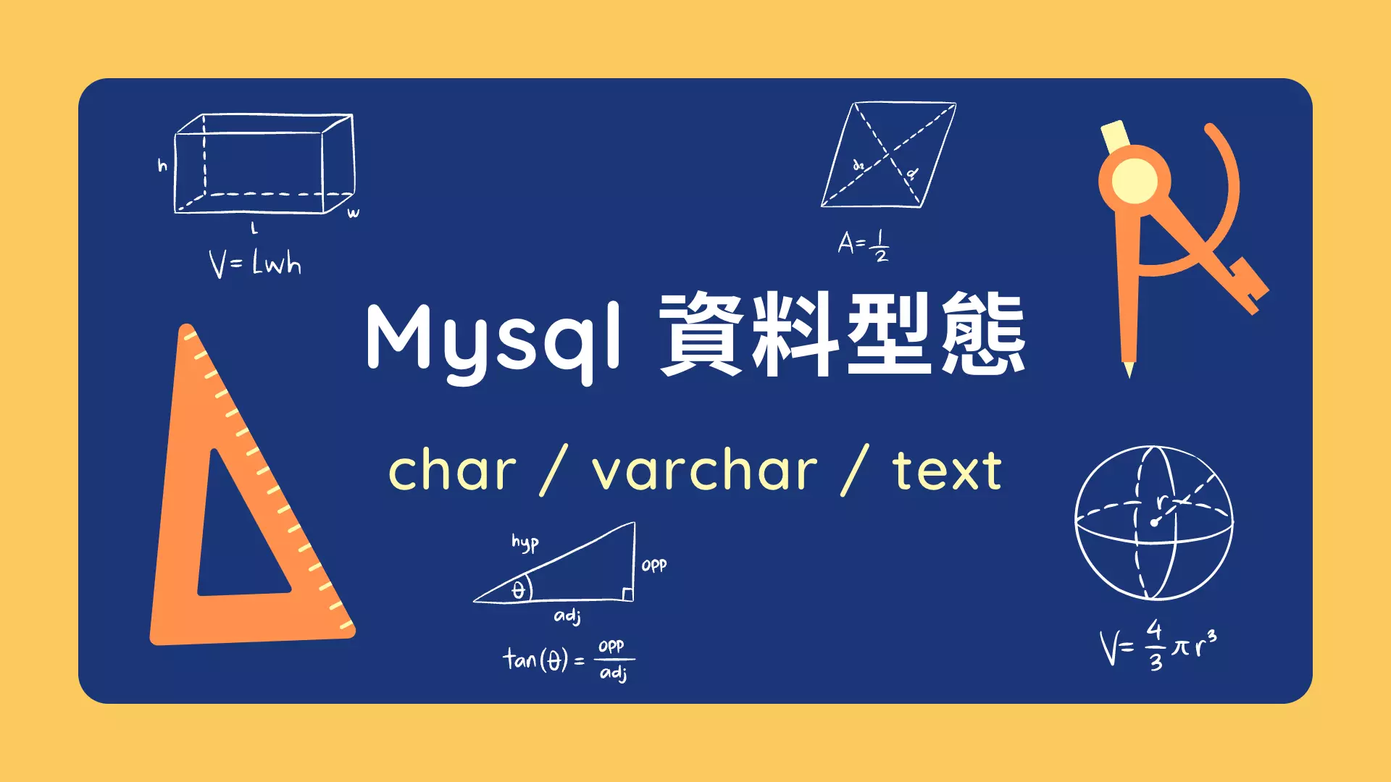
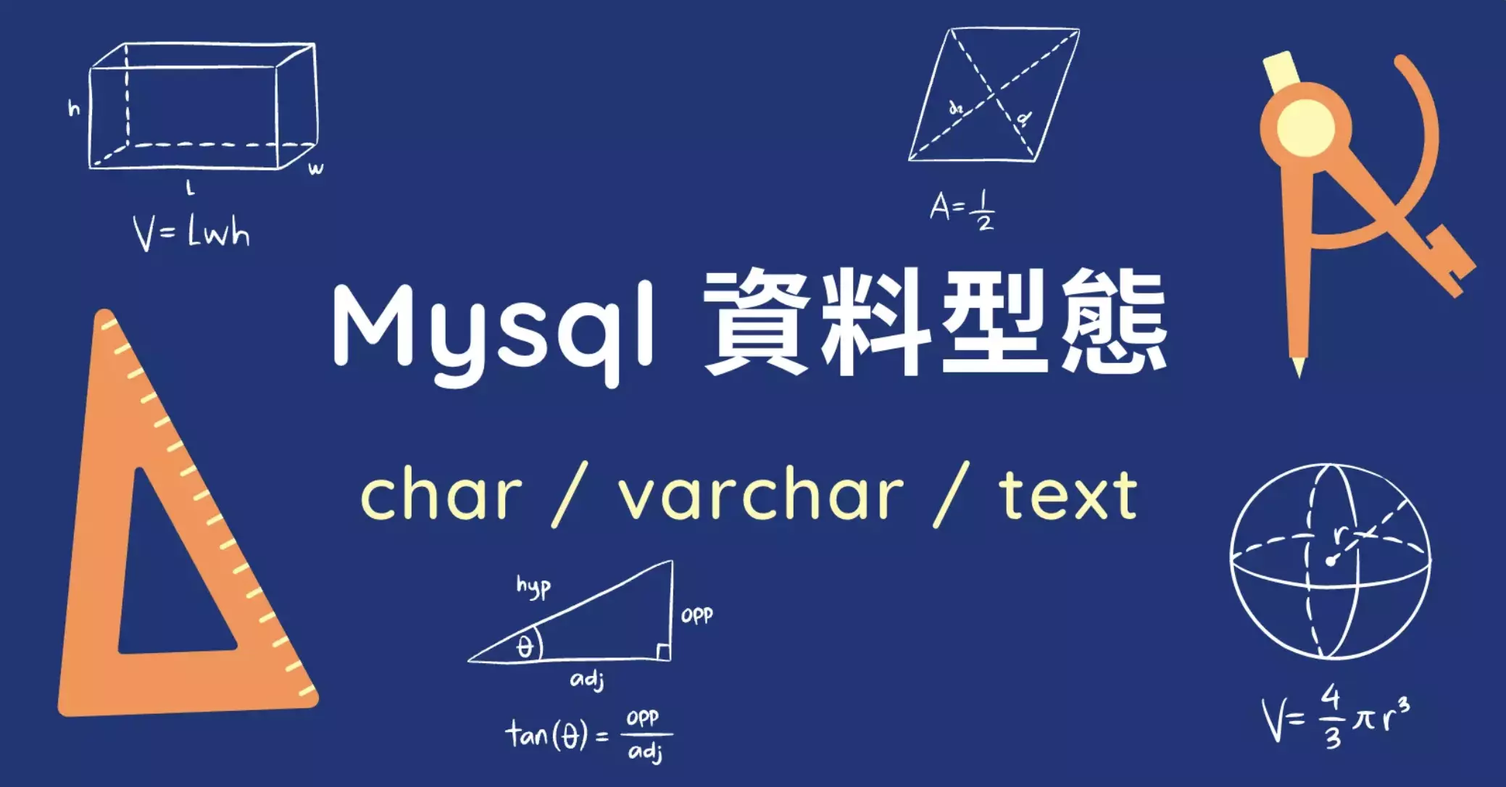
更新blog：2022/03/07 21:57:34

diff --git a/en/hualien-part3/index.html b/en/hualien-part3/index.html
@@ -9,7 +9,7 @@
 <meta property="og:type" content="article" />
 <meta property="og:url" content="https://pin-yi.me/en/hualien-part3/" /><meta property="og:image" content="https://pin-yi.me/en/hualien-part3/featured-image.webp"/><meta property="article:section" content="posts" />
 <meta property="article:published_time" content="2022-01-19T12:00:00+08:00" />
-<meta property="article:modified_time" content="2022-02-20T19:06:45+08:00" />
+<meta property="article:modified_time" content="2022-01-19T12:00:00+08:00" />
 
 <meta name="twitter:card" content="summary_large_image"/>
 <meta name="twitter:image" content="https://pin-yi.me/en/hualien-part3/featured-image.webp"/>
@@ -34,7 +34,7 @@
                             "width":  1920 ,
                             "height":  1080 
                         }],"genre": "posts","keywords": "LongStay, 旅遊, YouTube","wordcount":  78 ,
-        "url": "https:\/\/pin-yi.me\/en\/hualien-part3\/","datePublished": "2022-01-19T12:00:00+08:00","dateModified": "2022-02-20T19:06:45+08:00","license": "This work is licensed under a Creative Commons Attribution-NonCommercial 4.0 International License.","publisher": {
+        "url": "https:\/\/pin-yi.me\/en\/hualien-part3\/","datePublished": "2022-01-19T12:00:00+08:00","dateModified": "2022-01-19T12:00:00+08:00","license": "This work is licensed under a Creative Commons Attribution-NonCommercial 4.0 International License.","publisher": {
             "@type": "Organization",
             "name": "Zhuang,Pin-Yi","logo": "https:\/\/pin-yi.me\/images\/avatar.webp"},"author": {
                 "@type": "Person",
@@ -214,13 +214,12 @@ if (!doNotTrack) {
                 </span><span><a href="/en/tags/%E6%97%85%E9%81%8A/">旅遊</a>
                 </span><span><a href="/en/tags/youtube/">YouTube</a>
                 </span></div><div class="post-info-line"><div class="post-info-mod">
-                <span>Updated on 2022-02-20&nbsp;<a class="git-hash" href="https://github.com/880831ian/blog/commit/06e664a5cc04e2c6e96c272cfaa60a30ed2de145" target="_blank" title="committed&nbsp;by&nbsp;PinYi(880831ian@gmail.com)&nbsp;06e664a:&nbsp;Initial commit">
-                            <i class="fas fa-hashtag fa-fw"></i>06e664a</a></span>
+                <span>Updated on 2022-01-19</span>
             </div><div class="post-info-mod"><span>
                             <a class="link-to-markdown" href="/en/hualien-part3/index.md" target="_blank">Read Markdown</a>
                         </span><span>
                         &nbsp;|&nbsp;
-                        <a class="link-to-markdown" href="https://github.com/880831ian/blog/tree/main/content/posts/Hualien-part3/index.en.md" target="_blank">Improve Article</a>
+                        <a class="link-to-markdown" href="https://github.com/880831ian/blog/tree/main/content/posts/hualien-part3/index.en.md" target="_blank">Improve Article</a>
                     </span></div>
         </div><div class="post-info-share">
             <span><a href="javascript:void(0);" title="Share on Twitter" data-sharer="twitter" data-url="https://pin-yi.me/en/hualien-part3/" data-title="好想再滑一次獨木舟 【Part 3】 花蓮要怎麼玩？玩一個月帶你認識你不知道的花蓮" data-hashtags="LongStay,旅遊,YouTube"><i class="fab fa-twitter fa-fw"></i></a><a href="javascript:void(0);" title="Share on Facebook" data-sharer="facebook" data-url="https://pin-yi.me/en/hualien-part3/" data-hashtag="LongStay"><i class="fab fa-facebook-square fa-fw"></i></a><a href="javascript:void(0);" title="Share on Linkedin" data-sharer="linkedin" data-url="https://pin-yi.me/en/hualien-part3/"><i class="fab fa-linkedin fa-fw"></i></a><a href="javascript:void(0);" title="Share on Reddit" data-sharer="reddit" data-url="https://pin-yi.me/en/hualien-part3/"><i class="fab fa-reddit fa-fw"></i></a><a href="javascript:void(0);" title="Share on Line" data-sharer="line" data-url="https://pin-yi.me/en/hualien-part3/" data-title="好想再滑一次獨木舟 【Part 3】 花蓮要怎麼玩？玩一個月帶你認識你不知道的花蓮"><i class="fab fa-line fa-fw"></i></a><a href="javascript:void(0);" title="Share on 微博" data-sharer="weibo" data-url="https://pin-yi.me/en/hualien-part3/" data-title="好想再滑一次獨木舟 【Part 3】 花蓮要怎麼玩？玩一個月帶你認識你不知道的花蓮"><i class="fab fa-weibo fa-fw"></i></a><a href="javascript:void(0);" title="Share on Skype" data-sharer="skype" data-url="https://pin-yi.me/en/hualien-part3/" data-title="好想再滑一次獨木舟 【Part 3】 花蓮要怎麼玩？玩一個月帶你認識你不知道的花蓮"><i class="fab fa-skype fa-fw"></i></a></span>

diff --git a/en/hualien-part1/index.html b/en/hualien-part1/index.html
@@ -9,7 +9,7 @@
 <meta property="og:type" content="article" />
 <meta property="og:url" content="https://pin-yi.me/en/hualien-part1/" /><meta property="og:image" content="https://pin-yi.me/en/hualien-part1/featured-image.webp"/><meta property="article:section" content="posts" />
 <meta property="article:published_time" content="2021-08-16T12:00:00+08:00" />
-<meta property="article:modified_time" content="2022-02-23T22:28:43+08:00" />
+<meta property="article:modified_time" content="2021-08-16T12:00:00+08:00" />
 
 <meta name="twitter:card" content="summary_large_image"/>
 <meta name="twitter:image" content="https://pin-yi.me/en/hualien-part1/featured-image.webp"/>
@@ -34,7 +34,7 @@
                             "width":  1280 ,
                             "height":  720 
                         }],"genre": "posts","keywords": "LongStay, 旅遊, YouTube","wordcount":  116 ,
-        "url": "https:\/\/pin-yi.me\/en\/hualien-part1\/","datePublished": "2021-08-16T12:00:00+08:00","dateModified": "2022-02-23T22:28:43+08:00","license": "This work is licensed under a Creative Commons Attribution-NonCommercial 4.0 International License.","publisher": {
+        "url": "https:\/\/pin-yi.me\/en\/hualien-part1\/","datePublished": "2021-08-16T12:00:00+08:00","dateModified": "2021-08-16T12:00:00+08:00","license": "This work is licensed under a Creative Commons Attribution-NonCommercial 4.0 International License.","publisher": {
             "@type": "Organization",
             "name": "Zhuang,Pin-Yi","logo": "https:\/\/pin-yi.me\/images\/avatar.webp"},"author": {
                 "@type": "Person",
@@ -214,13 +214,12 @@ if (!doNotTrack) {
                 </span><span><a href="/en/tags/%E6%97%85%E9%81%8A/">旅遊</a>
                 </span><span><a href="/en/tags/youtube/">YouTube</a>
                 </span></div><div class="post-info-line"><div class="post-info-mod">
-                <span>Updated on 2022-02-23&nbsp;<a class="git-hash" href="https://github.com/880831ian/blog/commit/de8ed8125dc672e9d369d194885fde142bcd5cf1" target="_blank" title="committed&nbsp;by&nbsp;PinYi(880831ian@gmail.com)&nbsp;de8ed81:&nbsp;v1.0.3">
-                            <i class="fas fa-hashtag fa-fw"></i>de8ed81</a></span>
+                <span>Updated on 2021-08-16</span>
             </div><div class="post-info-mod"><span>
                             <a class="link-to-markdown" href="/en/hualien-part1/index.md" target="_blank">Read Markdown</a>
                         </span><span>
                         &nbsp;|&nbsp;
-                        <a class="link-to-markdown" href="https://github.com/880831ian/blog/tree/main/content/posts/Hualien-part1/index.en.md" target="_blank">Improve Article</a>
+                        <a class="link-to-markdown" href="https://github.com/880831ian/blog/tree/main/content/posts/hualien-part1/index.en.md" target="_blank">Improve Article</a>
                     </span></div>
         </div><div class="post-info-share">
             <span><a href="javascript:void(0);" title="Share on Twitter" data-sharer="twitter" data-url="https://pin-yi.me/en/hualien-part1/" data-title="花蓮吉安鄉在地旅遊 【Part 1】 花蓮要怎麼玩？玩一個月帶你認識你不知道的花蓮" data-hashtags="LongStay,旅遊,YouTube"><i class="fab fa-twitter fa-fw"></i></a><a href="javascript:void(0);" title="Share on Facebook" data-sharer="facebook" data-url="https://pin-yi.me/en/hualien-part1/" data-hashtag="LongStay"><i class="fab fa-facebook-square fa-fw"></i></a><a href="javascript:void(0);" title="Share on Linkedin" data-sharer="linkedin" data-url="https://pin-yi.me/en/hualien-part1/"><i class="fab fa-linkedin fa-fw"></i></a><a href="javascript:void(0);" title="Share on Reddit" data-sharer="reddit" data-url="https://pin-yi.me/en/hualien-part1/"><i class="fab fa-reddit fa-fw"></i></a><a href="javascript:void(0);" title="Share on Line" data-sharer="line" data-url="https://pin-yi.me/en/hualien-part1/" data-title="花蓮吉安鄉在地旅遊 【Part 1】 花蓮要怎麼玩？玩一個月帶你認識你不知道的花蓮"><i class="fab fa-line fa-fw"></i></a><a href="javascript:void(0);" title="Share on 微博" data-sharer="weibo" data-url="https://pin-yi.me/en/hualien-part1/" data-title="花蓮吉安鄉在地旅遊 【Part 1】 花蓮要怎麼玩？玩一個月帶你認識你不知道的花蓮"><i class="fab fa-weibo fa-fw"></i></a><a href="javascript:void(0);" title="Share on Skype" data-sharer="skype" data-url="https://pin-yi.me/en/hualien-part1/" data-title="花蓮吉安鄉在地旅遊 【Part 1】 花蓮要怎麼玩？玩一個月帶你認識你不知道的花蓮"><i class="fab fa-skype fa-fw"></i></a></span>

diff --git a/en/hualien-part2/index.html b/en/hualien-part2/index.html
@@ -9,7 +9,7 @@
 <meta property="og:type" content="article" />
 <meta property="og:url" content="https://pin-yi.me/en/hualien-part2/" /><meta property="og:image" content="https://pin-yi.me/en/hualien-part2/featured-image.webp"/><meta property="article:section" content="posts" />
 <meta property="article:published_time" content="2022-01-16T12:00:00+08:00" />
-<meta property="article:modified_time" content="2022-02-20T19:06:45+08:00" />
+<meta property="article:modified_time" content="2022-01-16T12:00:00+08:00" />
 
 <meta name="twitter:card" content="summary_large_image"/>
 <meta name="twitter:image" content="https://pin-yi.me/en/hualien-part2/featured-image.webp"/>
@@ -34,7 +34,7 @@
                             "width":  1920 ,
                             "height":  1080 
                         }],"genre": "posts","keywords": "LongStay, 旅遊, YouTube","wordcount":  77 ,
-        "url": "https:\/\/pin-yi.me\/en\/hualien-part2\/","datePublished": "2022-01-16T12:00:00+08:00","dateModified": "2022-02-20T19:06:45+08:00","license": "This work is licensed under a Creative Commons Attribution-NonCommercial 4.0 International License.","publisher": {
+        "url": "https:\/\/pin-yi.me\/en\/hualien-part2\/","datePublished": "2022-01-16T12:00:00+08:00","dateModified": "2022-01-16T12:00:00+08:00","license": "This work is licensed under a Creative Commons Attribution-NonCommercial 4.0 International License.","publisher": {
             "@type": "Organization",
             "name": "Zhuang,Pin-Yi","logo": "https:\/\/pin-yi.me\/images\/avatar.webp"},"author": {
                 "@type": "Person",
@@ -205,13 +205,12 @@ if (!doNotTrack) {
                 </span><span><a href="/en/tags/%E6%97%85%E9%81%8A/">旅遊</a>
                 </span><span><a href="/en/tags/youtube/">YouTube</a>
                 </span></div><div class="post-info-line"><div class="post-info-mod">
-                <span>Updated on 2022-02-20&nbsp;<a class="git-hash" href="https://github.com/880831ian/blog/commit/06e664a5cc04e2c6e96c272cfaa60a30ed2de145" target="_blank" title="committed&nbsp;by&nbsp;PinYi(880831ian@gmail.com)&nbsp;06e664a:&nbsp;Initial commit">
-                            <i class="fas fa-hashtag fa-fw"></i>06e664a</a></span>
+                <span>Updated on 2022-01-16</span>
             </div><div class="post-info-mod"><span>
                             <a class="link-to-markdown" href="/en/hualien-part2/index.md" target="_blank">Read Markdown</a>
                         </span><span>
                         &nbsp;|&nbsp;
-                        <a class="link-to-markdown" href="https://github.com/880831ian/blog/tree/main/content/posts/Hualien-part2/index.en.md" target="_blank">Improve Article</a>
+                        <a class="link-to-markdown" href="https://github.com/880831ian/blog/tree/main/content/posts/hualien-part2/index.en.md" target="_blank">Improve Article</a>
                     </span></div>
         </div><div class="post-info-share">
             <span><a href="javascript:void(0);" title="Share on Twitter" data-sharer="twitter" data-url="https://pin-yi.me/en/hualien-part2/" data-title="空拍帶你看花蓮 【Part 2】 花蓮要怎麼玩？玩一個月帶你認識你不知道的花蓮" data-hashtags="LongStay,旅遊,YouTube"><i class="fab fa-twitter fa-fw"></i></a><a href="javascript:void(0);" title="Share on Facebook" data-sharer="facebook" data-url="https://pin-yi.me/en/hualien-part2/" data-hashtag="LongStay"><i class="fab fa-facebook-square fa-fw"></i></a><a href="javascript:void(0);" title="Share on Linkedin" data-sharer="linkedin" data-url="https://pin-yi.me/en/hualien-part2/"><i class="fab fa-linkedin fa-fw"></i></a><a href="javascript:void(0);" title="Share on Reddit" data-sharer="reddit" data-url="https://pin-yi.me/en/hualien-part2/"><i class="fab fa-reddit fa-fw"></i></a><a href="javascript:void(0);" title="Share on Line" data-sharer="line" data-url="https://pin-yi.me/en/hualien-part2/" data-title="空拍帶你看花蓮 【Part 2】 花蓮要怎麼玩？玩一個月帶你認識你不知道的花蓮"><i class="fab fa-line fa-fw"></i></a><a href="javascript:void(0);" title="Share on 微博" data-sharer="weibo" data-url="https://pin-yi.me/en/hualien-part2/" data-title="空拍帶你看花蓮 【Part 2】 花蓮要怎麼玩？玩一個月帶你認識你不知道的花蓮"><i class="fab fa-weibo fa-fw"></i></a><a href="javascript:void(0);" title="Share on Skype" data-sharer="skype" data-url="https://pin-yi.me/en/hualien-part2/" data-title="空拍帶你看花蓮 【Part 2】 花蓮要怎麼玩？玩一個月帶你認識你不知道的花蓮"><i class="fab fa-skype fa-fw"></i></a></span>

diff --git a/hualien-part3/index.html b/hualien-part3/index.html
@@ -9,7 +9,7 @@
 <meta property="og:type" content="article" />
 <meta property="og:url" content="https://pin-yi.me/hualien-part3/" /><meta property="og:image" content="https://pin-yi.me/hualien-part3/featured-image.webp"/><meta property="article:section" content="posts" />
 <meta property="article:published_time" content="2022-01-19T12:00:00+08:00" />
-<meta property="article:modified_time" content="2022-02-20T19:06:45+08:00" />
+<meta property="article:modified_time" content="2022-01-19T12:00:00+08:00" />
 
 <meta name="twitter:card" content="summary_large_image"/>
 <meta name="twitter:image" content="https://pin-yi.me/hualien-part3/featured-image.webp"/>
@@ -34,7 +34,7 @@
                             "width":  1920 ,
                             "height":  1080 
                         }],"genre": "posts","keywords": "LongStay, 旅遊, YouTube","wordcount":  224 ,
-        "url": "https:\/\/pin-yi.me\/hualien-part3\/","datePublished": "2022-01-19T12:00:00+08:00","dateModified": "2022-02-20T19:06:45+08:00","license": "This work is licensed under a Creative Commons Attribution-NonCommercial 4.0 International License.","publisher": {
+        "url": "https:\/\/pin-yi.me\/hualien-part3\/","datePublished": "2022-01-19T12:00:00+08:00","dateModified": "2022-01-19T12:00:00+08:00","license": "This work is licensed under a Creative Commons Attribution-NonCommercial 4.0 International License.","publisher": {
             "@type": "Organization",
             "name": "Zhuang,Pin-Yi","logo": "https:\/\/pin-yi.me\/images\/avatar.webp"},"author": {
                 "@type": "Person",
@@ -214,13 +214,12 @@ if (!doNotTrack) {
                 </span><span><a href="/tags/%E6%97%85%E9%81%8A/">旅遊</a>
                 </span><span><a href="/tags/youtube/">YouTube</a>
                 </span></div><div class="post-info-line"><div class="post-info-mod">
-                <span>更新於 2022-02-20&nbsp;<a class="git-hash" href="https://github.com/880831ian/blog/commit/06e664a5cc04e2c6e96c272cfaa60a30ed2de145" target="_blank" title="committed&nbsp;by&nbsp;PinYi(880831ian@gmail.com)&nbsp;06e664a:&nbsp;Initial commit">
-                            <i class="fas fa-hashtag fa-fw"></i>06e664a</a></span>
+                <span>更新於 2022-01-19</span>
             </div><div class="post-info-mod"><span>
                             <a class="link-to-markdown" href="/hualien-part3/index.md" target="_blank">閱讀原始文檔</a>
                         </span><span>
                         &nbsp;|&nbsp;
-                        <a class="link-to-markdown" href="https://github.com/880831ian/blog/tree/main/content/posts/Hualien-part3/index.zh-tw.md" target="_blank">Improve Article</a>
+                        <a class="link-to-markdown" href="https://github.com/880831ian/blog/tree/main/content/posts/hualien-part3/index.zh-tw.md" target="_blank">Improve Article</a>
                     </span></div>
         </div><div class="post-info-share">
             <span><a href="javascript:void(0);" title="分享到 Twitter" data-sharer="twitter" data-url="https://pin-yi.me/hualien-part3/" data-title="好想再滑一次獨木舟 【Part 3】 花蓮要怎麼玩？玩一個月帶你認識你不知道的花蓮" data-hashtags="LongStay,旅遊,YouTube"><i class="fab fa-twitter fa-fw"></i></a><a href="javascript:void(0);" title="分享到 Facebook" data-sharer="facebook" data-url="https://pin-yi.me/hualien-part3/" data-hashtag="LongStay"><i class="fab fa-facebook-square fa-fw"></i></a><a href="javascript:void(0);" title="分享到 Linkedin" data-sharer="linkedin" data-url="https://pin-yi.me/hualien-part3/"><i class="fab fa-linkedin fa-fw"></i></a><a href="javascript:void(0);" title="分享到 Reddit" data-sharer="reddit" data-url="https://pin-yi.me/hualien-part3/"><i class="fab fa-reddit fa-fw"></i></a><a href="javascript:void(0);" title="分享到 Line" data-sharer="line" data-url="https://pin-yi.me/hualien-part3/" data-title="好想再滑一次獨木舟 【Part 3】 花蓮要怎麼玩？玩一個月帶你認識你不知道的花蓮"><i class="fab fa-line fa-fw"></i></a><a href="javascript:void(0);" title="分享到 微博" data-sharer="weibo" data-url="https://pin-yi.me/hualien-part3/" data-title="好想再滑一次獨木舟 【Part 3】 花蓮要怎麼玩？玩一個月帶你認識你不知道的花蓮"><i class="fab fa-weibo fa-fw"></i></a><a href="javascript:void(0);" title="分享到 Skype" data-sharer="skype" data-url="https://pin-yi.me/hualien-part3/" data-title="好想再滑一次獨木舟 【Part 3】 花蓮要怎麼玩？玩一個月帶你認識你不知道的花蓮"><i class="fab fa-skype fa-fw"></i></a></span>

diff --git a/hualien-part1/index.html b/hualien-part1/index.html
@@ -9,7 +9,7 @@
 <meta property="og:type" content="article" />
 <meta property="og:url" content="https://pin-yi.me/hualien-part1/" /><meta property="og:image" content="https://pin-yi.me/hualien-part1/featured-image.webp"/><meta property="article:section" content="posts" />
 <meta property="article:published_time" content="2021-08-16T12:00:00+08:00" />
-<meta property="article:modified_time" content="2022-02-20T19:06:45+08:00" />
+<meta property="article:modified_time" content="2021-08-16T12:00:00+08:00" />
 
 <meta name="twitter:card" content="summary_large_image"/>
 <meta name="twitter:image" content="https://pin-yi.me/hualien-part1/featured-image.webp"/>
@@ -34,7 +34,7 @@
                             "width":  1280 ,
                             "height":  720 
                         }],"genre": "posts","keywords": "LongStay, 旅遊, YouTube","wordcount":  257 ,
-        "url": "https:\/\/pin-yi.me\/hualien-part1\/","datePublished": "2021-08-16T12:00:00+08:00","dateModified": "2022-02-20T19:06:45+08:00","license": "This work is licensed under a Creative Commons Attribution-NonCommercial 4.0 International License.","publisher": {
+        "url": "https:\/\/pin-yi.me\/hualien-part1\/","datePublished": "2021-08-16T12:00:00+08:00","dateModified": "2021-08-16T12:00:00+08:00","license": "This work is licensed under a Creative Commons Attribution-NonCommercial 4.0 International License.","publisher": {
             "@type": "Organization",
             "name": "Zhuang,Pin-Yi","logo": "https:\/\/pin-yi.me\/images\/avatar.webp"},"author": {
                 "@type": "Person",
@@ -214,13 +214,12 @@ if (!doNotTrack) {
                 </span><span><a href="/tags/%E6%97%85%E9%81%8A/">旅遊</a>
                 </span><span><a href="/tags/youtube/">YouTube</a>
                 </span></div><div class="post-info-line"><div class="post-info-mod">
-                <span>更新於 2022-02-20&nbsp;<a class="git-hash" href="https://github.com/880831ian/blog/commit/06e664a5cc04e2c6e96c272cfaa60a30ed2de145" target="_blank" title="committed&nbsp;by&nbsp;PinYi(880831ian@gmail.com)&nbsp;06e664a:&nbsp;Initial commit">
-                            <i class="fas fa-hashtag fa-fw"></i>06e664a</a></span>
+                <span>更新於 2021-08-16</span>
             </div><div class="post-info-mod"><span>
                             <a class="link-to-markdown" href="/hualien-part1/index.md" target="_blank">閱讀原始文檔</a>
                         </span><span>
                         &nbsp;|&nbsp;
-                        <a class="link-to-markdown" href="https://github.com/880831ian/blog/tree/main/content/posts/Hualien-part1/index.zh-tw.md" target="_blank">Improve Article</a>
+                        <a class="link-to-markdown" href="https://github.com/880831ian/blog/tree/main/content/posts/hualien-part1/index.zh-tw.md" target="_blank">Improve Article</a>
                     </span></div>
         </div><div class="post-info-share">
             <span><a href="javascript:void(0);" title="分享到 Twitter" data-sharer="twitter" data-url="https://pin-yi.me/hualien-part1/" data-title="花蓮吉安鄉在地旅遊 【Part 1】 花蓮要怎麼玩？玩一個月帶你認識你不知道的花蓮" data-hashtags="LongStay,旅遊,YouTube"><i class="fab fa-twitter fa-fw"></i></a><a href="javascript:void(0);" title="分享到 Facebook" data-sharer="facebook" data-url="https://pin-yi.me/hualien-part1/" data-hashtag="LongStay"><i class="fab fa-facebook-square fa-fw"></i></a><a href="javascript:void(0);" title="分享到 Linkedin" data-sharer="linkedin" data-url="https://pin-yi.me/hualien-part1/"><i class="fab fa-linkedin fa-fw"></i></a><a href="javascript:void(0);" title="分享到 Reddit" data-sharer="reddit" data-url="https://pin-yi.me/hualien-part1/"><i class="fab fa-reddit fa-fw"></i></a><a href="javascript:void(0);" title="分享到 Line" data-sharer="line" data-url="https://pin-yi.me/hualien-part1/" data-title="花蓮吉安鄉在地旅遊 【Part 1】 花蓮要怎麼玩？玩一個月帶你認識你不知道的花蓮"><i class="fab fa-line fa-fw"></i></a><a href="javascript:void(0);" title="分享到 微博" data-sharer="weibo" data-url="https://pin-yi.me/hualien-part1/" data-title="花蓮吉安鄉在地旅遊 【Part 1】 花蓮要怎麼玩？玩一個月帶你認識你不知道的花蓮"><i class="fab fa-weibo fa-fw"></i></a><a href="javascript:void(0);" title="分享到 Skype" data-sharer="skype" data-url="https://pin-yi.me/hualien-part1/" data-title="花蓮吉安鄉在地旅遊 【Part 1】 花蓮要怎麼玩？玩一個月帶你認識你不知道的花蓮"><i class="fab fa-skype fa-fw"></i></a></span>

diff --git a/hualien-part2/index.html b/hualien-part2/index.html
@@ -9,7 +9,7 @@
 <meta property="og:type" content="article" />
 <meta property="og:url" content="https://pin-yi.me/hualien-part2/" /><meta property="og:image" content="https://pin-yi.me/hualien-part2/featured-image.webp"/><meta property="article:section" content="posts" />
 <meta property="article:published_time" content="2022-01-16T12:00:00+08:00" />
-<meta property="article:modified_time" content="2022-02-20T19:06:45+08:00" />
+<meta property="article:modified_time" content="2022-01-16T12:00:00+08:00" />
 
 <meta name="twitter:card" content="summary_large_image"/>
 <meta name="twitter:image" content="https://pin-yi.me/hualien-part2/featured-image.webp"/>
@@ -34,7 +34,7 @@
                             "width":  1920 ,
                             "height":  1080 
                         }],"genre": "posts","keywords": "LongStay, 旅遊, YouTube","wordcount":  200 ,
-        "url": "https:\/\/pin-yi.me\/hualien-part2\/","datePublished": "2022-01-16T12:00:00+08:00","dateModified": "2022-02-20T19:06:45+08:00","license": "This work is licensed under a Creative Commons Attribution-NonCommercial 4.0 International License.","publisher": {
+        "url": "https:\/\/pin-yi.me\/hualien-part2\/","datePublished": "2022-01-16T12:00:00+08:00","dateModified": "2022-01-16T12:00:00+08:00","license": "This work is licensed under a Creative Commons Attribution-NonCommercial 4.0 International License.","publisher": {
             "@type": "Organization",
             "name": "Zhuang,Pin-Yi","logo": "https:\/\/pin-yi.me\/images\/avatar.webp"},"author": {
                 "@type": "Person",
@@ -205,13 +205,12 @@ if (!doNotTrack) {
                 </span><span><a href="/tags/%E6%97%85%E9%81%8A/">旅遊</a>
                 </span><span><a href="/tags/youtube/">YouTube</a>
                 </span></div><div class="post-info-line"><div class="post-info-mod">
-                <span>更新於 2022-02-20&nbsp;<a class="git-hash" href="https://github.com/880831ian/blog/commit/06e664a5cc04e2c6e96c272cfaa60a30ed2de145" target="_blank" title="committed&nbsp;by&nbsp;PinYi(880831ian@gmail.com)&nbsp;06e664a:&nbsp;Initial commit">
-                            <i class="fas fa-hashtag fa-fw"></i>06e664a</a></span>
+                <span>更新於 2022-01-16</span>
             </div><div class="post-info-mod"><span>
                             <a class="link-to-markdown" href="/hualien-part2/index.md" target="_blank">閱讀原始文檔</a>
                         </span><span>
                         &nbsp;|&nbsp;
-                        <a class="link-to-markdown" href="https://github.com/880831ian/blog/tree/main/content/posts/Hualien-part2/index.zh-tw.md" target="_blank">Improve Article</a>
+                        <a class="link-to-markdown" href="https://github.com/880831ian/blog/tree/main/content/posts/hualien-part2/index.zh-tw.md" target="_blank">Improve Article</a>
                     </span></div>
         </div><div class="post-info-share">
             <span><a href="javascript:void(0);" title="分享到 Twitter" data-sharer="twitter" data-url="https://pin-yi.me/hualien-part2/" data-title="空拍帶你看花蓮 【Part 2】 花蓮要怎麼玩？玩一個月帶你認識你不知道的花蓮" data-hashtags="LongStay,旅遊,YouTube"><i class="fab fa-twitter fa-fw"></i></a><a href="javascript:void(0);" title="分享到 Facebook" data-sharer="facebook" data-url="https://pin-yi.me/hualien-part2/" data-hashtag="LongStay"><i class="fab fa-facebook-square fa-fw"></i></a><a href="javascript:void(0);" title="分享到 Linkedin" data-sharer="linkedin" data-url="https://pin-yi.me/hualien-part2/"><i class="fab fa-linkedin fa-fw"></i></a><a href="javascript:void(0);" title="分享到 Reddit" data-sharer="reddit" data-url="https://pin-yi.me/hualien-part2/"><i class="fab fa-reddit fa-fw"></i></a><a href="javascript:void(0);" title="分享到 Line" data-sharer="line" data-url="https://pin-yi.me/hualien-part2/" data-title="空拍帶你看花蓮 【Part 2】 花蓮要怎麼玩？玩一個月帶你認識你不知道的花蓮"><i class="fab fa-line fa-fw"></i></a><a href="javascript:void(0);" title="分享到 微博" data-sharer="weibo" data-url="https://pin-yi.me/hualien-part2/" data-title="空拍帶你看花蓮 【Part 2】 花蓮要怎麼玩？玩一個月帶你認識你不知道的花蓮"><i class="fab fa-weibo fa-fw"></i></a><a href="javascript:void(0);" title="分享到 Skype" data-sharer="skype" data-url="https://pin-yi.me/hualien-part2/" data-title="空拍帶你看花蓮 【Part 2】 花蓮要怎麼玩？玩一個月帶你認識你不知道的花蓮"><i class="fab fa-skype fa-fw"></i></a></span>

diff --git a/en/giant-hand/index.html b/en/giant-hand/index.html
@@ -9,7 +9,7 @@
 <meta property="og:type" content="article" />
 <meta property="og:url" content="https://pin-yi.me/en/giant-hand/" /><meta property="og:image" content="https://pin-yi.me/en/giant-hand/featured-image.webp"/><meta property="article:section" content="posts" />
 <meta property="article:published_time" content="2021-02-05T16:34:20+08:00" />
-<meta property="article:modified_time" content="2022-02-20T19:06:45+08:00" />
+<meta property="article:modified_time" content="2021-02-05T16:34:20+08:00" />
 
 <meta name="twitter:card" content="summary_large_image"/>
 <meta name="twitter:image" content="https://pin-yi.me/en/giant-hand/featured-image.webp"/>
@@ -34,7 +34,7 @@
                             "width":  2560 ,
                             "height":  1440 
                         }],"genre": "posts","keywords": "機車, 旅遊, YouTube","wordcount":  47 ,
-        "url": "https:\/\/pin-yi.me\/en\/giant-hand\/","datePublished": "2021-02-05T16:34:20+08:00","dateModified": "2022-02-20T19:06:45+08:00","license": "This work is licensed under a Creative Commons Attribution-NonCommercial 4.0 International License.","publisher": {
+        "url": "https:\/\/pin-yi.me\/en\/giant-hand\/","datePublished": "2021-02-05T16:34:20+08:00","dateModified": "2021-02-05T16:34:20+08:00","license": "This work is licensed under a Creative Commons Attribution-NonCommercial 4.0 International License.","publisher": {
             "@type": "Organization",
             "name": "Zhuang,Pin-Yi","logo": "https:\/\/pin-yi.me\/images\/avatar.webp"},"author": {
                 "@type": "Person",
@@ -185,13 +185,12 @@ if (!doNotTrack) {
                 </span><span><a href="/en/tags/%E6%97%85%E9%81%8A/">旅遊</a>
                 </span><span><a href="/en/tags/youtube/">YouTube</a>
                 </span></div><div class="post-info-line"><div class="post-info-mod">
-                <span>Updated on 2022-02-20&nbsp;<a class="git-hash" href="https://github.com/880831ian/blog/commit/06e664a5cc04e2c6e96c272cfaa60a30ed2de145" target="_blank" title="committed&nbsp;by&nbsp;PinYi(880831ian@gmail.com)&nbsp;06e664a:&nbsp;Initial commit">
-                            <i class="fas fa-hashtag fa-fw"></i>06e664a</a></span>
+                <span>Updated on 2021-02-05</span>
             </div><div class="post-info-mod"><span>
                             <a class="link-to-markdown" href="/en/giant-hand/index.md" target="_blank">Read Markdown</a>
                         </span><span>
                         &nbsp;|&nbsp;
-                        <a class="link-to-markdown" href="https://github.com/880831ian/blog/tree/main/content/posts/Giant-Hand/index.en.md" target="_blank">Improve Article</a>
+                        <a class="link-to-markdown" href="https://github.com/880831ian/blog/tree/main/content/posts/giant-Hand/index.en.md" target="_blank">Improve Article</a>
                     </span></div>
         </div><div class="post-info-share">
             <span><a href="javascript:void(0);" title="Share on Twitter" data-sharer="twitter" data-url="https://pin-yi.me/en/giant-hand/" data-title="【巨人之手】 家庭機車出遊VLOG" data-hashtags="機車,旅遊,YouTube"><i class="fab fa-twitter fa-fw"></i></a><a href="javascript:void(0);" title="Share on Facebook" data-sharer="facebook" data-url="https://pin-yi.me/en/giant-hand/" data-hashtag="機車"><i class="fab fa-facebook-square fa-fw"></i></a><a href="javascript:void(0);" title="Share on Linkedin" data-sharer="linkedin" data-url="https://pin-yi.me/en/giant-hand/"><i class="fab fa-linkedin fa-fw"></i></a><a href="javascript:void(0);" title="Share on Reddit" data-sharer="reddit" data-url="https://pin-yi.me/en/giant-hand/"><i class="fab fa-reddit fa-fw"></i></a><a href="javascript:void(0);" title="Share on Line" data-sharer="line" data-url="https://pin-yi.me/en/giant-hand/" data-title="【巨人之手】 家庭機車出遊VLOG"><i class="fab fa-line fa-fw"></i></a><a href="javascript:void(0);" title="Share on 微博" data-sharer="weibo" data-url="https://pin-yi.me/en/giant-hand/" data-title="【巨人之手】 家庭機車出遊VLOG"><i class="fab fa-weibo fa-fw"></i></a><a href="javascript:void(0);" title="Share on Skype" data-sharer="skype" data-url="https://pin-yi.me/en/giant-hand/" data-title="【巨人之手】 家庭機車出遊VLOG"><i class="fab fa-skype fa-fw"></i></a></span>

diff --git a/giant-hand/index.html b/giant-hand/index.html
@@ -9,7 +9,7 @@
 <meta property="og:type" content="article" />
 <meta property="og:url" content="https://pin-yi.me/giant-hand/" /><meta property="og:image" content="https://pin-yi.me/giant-hand/featured-image.webp"/><meta property="article:section" content="posts" />
 <meta property="article:published_time" content="2021-02-05T16:34:20+08:00" />
-<meta property="article:modified_time" content="2022-02-20T19:06:45+08:00" />
+<meta property="article:modified_time" content="2021-02-05T16:34:20+08:00" />
 
 <meta name="twitter:card" content="summary_large_image"/>
 <meta name="twitter:image" content="https://pin-yi.me/giant-hand/featured-image.webp"/>
@@ -34,7 +34,7 @@
                             "width":  2560 ,
                             "height":  1440 
                         }],"genre": "posts","keywords": "機車, 旅遊, YouTube","wordcount":  98 ,
-        "url": "https:\/\/pin-yi.me\/giant-hand\/","datePublished": "2021-02-05T16:34:20+08:00","dateModified": "2022-02-20T19:06:45+08:00","license": "This work is licensed under a Creative Commons Attribution-NonCommercial 4.0 International License.","publisher": {
+        "url": "https:\/\/pin-yi.me\/giant-hand\/","datePublished": "2021-02-05T16:34:20+08:00","dateModified": "2021-02-05T16:34:20+08:00","license": "This work is licensed under a Creative Commons Attribution-NonCommercial 4.0 International License.","publisher": {
             "@type": "Organization",
             "name": "Zhuang,Pin-Yi","logo": "https:\/\/pin-yi.me\/images\/avatar.webp"},"author": {
                 "@type": "Person",
@@ -185,13 +185,12 @@ if (!doNotTrack) {
                 </span><span><a href="/tags/%E6%97%85%E9%81%8A/">旅遊</a>
                 </span><span><a href="/tags/youtube/">YouTube</a>
                 </span></div><div class="post-info-line"><div class="post-info-mod">
-                <span>更新於 2022-02-20&nbsp;<a class="git-hash" href="https://github.com/880831ian/blog/commit/06e664a5cc04e2c6e96c272cfaa60a30ed2de145" target="_blank" title="committed&nbsp;by&nbsp;PinYi(880831ian@gmail.com)&nbsp;06e664a:&nbsp;Initial commit">
-                            <i class="fas fa-hashtag fa-fw"></i>06e664a</a></span>
+                <span>更新於 2021-02-05</span>
             </div><div class="post-info-mod"><span>
                             <a class="link-to-markdown" href="/giant-hand/index.md" target="_blank">閱讀原始文檔</a>
                         </span><span>
                         &nbsp;|&nbsp;
-                        <a class="link-to-markdown" href="https://github.com/880831ian/blog/tree/main/content/posts/Giant-Hand/index.zh-tw.md" target="_blank">Improve Article</a>
+                        <a class="link-to-markdown" href="https://github.com/880831ian/blog/tree/main/content/posts/giant-Hand/index.zh-tw.md" target="_blank">Improve Article</a>
                     </span></div>
         </div><div class="post-info-share">
             <span><a href="javascript:void(0);" title="分享到 Twitter" data-sharer="twitter" data-url="https://pin-yi.me/giant-hand/" data-title="【巨人之手】 家庭機車出遊VLOG" data-hashtags="機車,旅遊,YouTube"><i class="fab fa-twitter fa-fw"></i></a><a href="javascript:void(0);" title="分享到 Facebook" data-sharer="facebook" data-url="https://pin-yi.me/giant-hand/" data-hashtag="機車"><i class="fab fa-facebook-square fa-fw"></i></a><a href="javascript:void(0);" title="分享到 Linkedin" data-sharer="linkedin" data-url="https://pin-yi.me/giant-hand/"><i class="fab fa-linkedin fa-fw"></i></a><a href="javascript:void(0);" title="分享到 Reddit" data-sharer="reddit" data-url="https://pin-yi.me/giant-hand/"><i class="fab fa-reddit fa-fw"></i></a><a href="javascript:void(0);" title="分享到 Line" data-sharer="line" data-url="https://pin-yi.me/giant-hand/" data-title="【巨人之手】 家庭機車出遊VLOG"><i class="fab fa-line fa-fw"></i></a><a href="javascript:void(0);" title="分享到 微博" data-sharer="weibo" data-url="https://pin-yi.me/giant-hand/" data-title="【巨人之手】 家庭機車出遊VLOG"><i class="fab fa-weibo fa-fw"></i></a><a href="javascript:void(0);" title="分享到 Skype" data-sharer="skype" data-url="https://pin-yi.me/giant-hand/" data-title="【巨人之手】 家庭機車出遊VLOG"><i class="fab fa-skype fa-fw"></i></a></span>

diff --git a/char-varchar/index.html b/char-varchar/index.html
@@ -31,8 +31,8 @@
         },"image": [{
                             "@type": "ImageObject",
                             "url": "https:\/\/pin-yi.me\/char-varchar\/featured-image.webp",
-                            "width":  1920 ,
-                            "height":  1080 
+                            "width":  2078 ,
+                            "height":  1086 
                         }],"genre": "posts","keywords": "資料型態","wordcount":  691 ,
         "url": "https:\/\/pin-yi.me\/char-varchar\/","datePublished": "2022-03-04T17:44:00+08:00","dateModified": "2022-03-05T14:05:04+08:00","license": "This work is licensed under a Creative Commons Attribution-NonCommercial 4.0 International License.","publisher": {
             "@type": "Organization",
